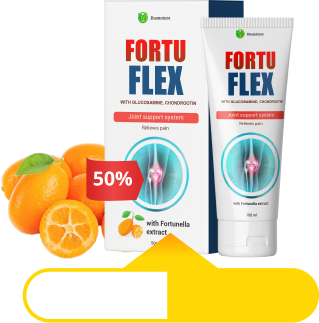
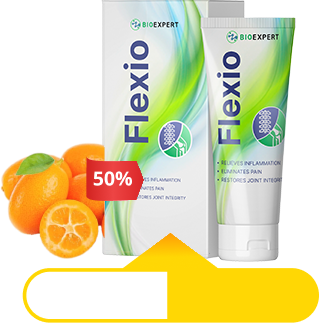
Updated offer name and images

Changed region(s): [[0.3103, 0.0, 0.931, 0.8359], [0.3103, 0.4025, 0.3386, 0.4334]]

diff --git a/index.html b/index.html
@@ -4,8 +4,8 @@
 <head>
   <meta charset="UTF-8">
   <meta name="viewport" content="width=device-width, initial-scale=1.0">
-  <title>Fortuflex</title>
-<meta property="og:title" content="FORTUFLEX ΠΡΟΙΟΝ №1"/>
+  <title>Flexio</title>
+<meta property="og:title" content="Flexio ΠΡΟΙΟΝ №1"/>
 <meta property="og:description" content="κατά της ισχιαλγίας, της οστεοχόνδρωσης και των τραυματισμών!"/>
 <meta property="og:image" content="https://i.imgur.com/qQm7Sy3.png"/>
 <meta property="og:type" content="website"/>
@@ -40,7 +40,7 @@
             <div class="top">
               Πονάνε <b>οι αρθρώσεις</b>  και <b>η πλάτη;</b>
             </div>
-            <p>Fortuflex ΠΡΟΙΟΝ №1</p>
+            <p>Flexio ΠΡΟΙΟΝ №1</p>
             <div class="bottom">
               κατά της ισχιαλγίας, της οστεοχόνδρωσης και των τραυματισμών!
             </div>
@@ -93,7 +93,7 @@
           <img src="img/sect1.png" alt="">
           <div class="text">
             <p>
-              <b>Η κρέμα Fortuflex είναι αποτελεσματική στη θεραπεία και πρόληψη ασθενειών της σπονδυλικής στήλης και των αρθρώσεων,</b> όπως: οστεοχόνδρωση, μεσοσπονδύλιες κήλες, δισκογενής ριζοκίτιδα, οστεοαρθρίτιδα, αρθρώσεις. Το Fortuflex ανακουφίζει από τον πόνο σπονδυλική στήλη και αρθρώσεις, σταματά φλεγμονώδεις διεργασίες, προωθεί την αναγέννηση των μεσοσπονδύλιων δίσκων και των χόνδρων ιστών, βελτιώνει τη μικροκυκλοφορία στους ιστούς.</b>
+              <b>Η κρέμα Flexio είναι αποτελεσματική στη θεραπεία και πρόληψη ασθενειών της σπονδυλικής στήλης και των αρθρώσεων,</b> όπως: οστεοχόνδρωση, μεσοσπονδύλιες κήλες, δισκογενής ριζοκίτιδα, οστεοαρθρίτιδα, αρθρώσεις. Το Flexio ανακουφίζει από τον πόνο σπονδυλική στήλη και αρθρώσεις, σταματά φλεγμονώδεις διεργασίες, προωθεί την αναγέννηση των μεσοσπονδύλιων δίσκων και των χόνδρων ιστών, βελτιώνει τη μικροκυκλοφορία στους ιστούς.</b>
             </p>
             <p class="sect1__triger">
               Το αποτέλεσμα είναι αισθητό μετά την πρώτη εφαρμογή. Η τακτική χρήση της κρέμας βοηθά στη διακοπή της εξέλιξης των ασθενειών του μυοσκελετικού συστήματος
@@ -108,7 +108,7 @@
           <img src="img/sect2-prod.png" alt="" class="prod">
           <img src="img/sect2-prod-mob.png" alt="" class="prod-mob">
           <p class="text">
-            <b>Fortuflex</b> περιέχει μόνο φυσικά συστατικά!
+            <b>Flexio</b> περιέχει μόνο φυσικά συστατικά!
           </p>
           <img src="img/sect2-fruit.png" alt="" class="fruit">
         </div>
@@ -118,7 +118,7 @@
       <div class="container">
         <div class="sect3__main">
           <h2 class="sect3__title">
-            ΤΑ ΟΦΕΛΗ ΤΗΣ ΚΡΕΜΑΣ <b>Fortuflex</b>
+            ΤΑ ΟΦΕΛΗ ΤΗΣ ΚΡΕΜΑΣ <b>Flexio</b>
           </h2>
           <div class="sect3__grid">
             <div class="sect3__item">
@@ -156,7 +156,7 @@
           <div class="reviews2 owl-carousel">
             <div class="item">
               <div class="comm">
-                <p>Πριν από αρκετούς μήνες άρχισα να αισθάνομαι έντονο πόνο στα γόνατά μου. Δεν βοήθησαν ενέσεις και χάπια. Οι αίσθηση του πόνου εξαφανιζόταν για λίγο. Η κρέμα Fortuflex με βοήθησε πολύ. Μια εβδομάδα μετά τη χρήση της, άρχισα να κινούμαι περισσότερο. Ολοκλήρωσα την θεραπεία. Τώρα κάνω αυτό που αγαπώ ξανά! Φοράω πάλι τα αγαπημένα μου παπούτσια! Το γόνατο ήταν πρησμένο, πονούσε άσχημα και δεν μπορούσα να κινήσω το πόδι μου.
+                <p>Πριν από αρκετούς μήνες άρχισα να αισθάνομαι έντονο πόνο στα γόνατά μου. Δεν βοήθησαν ενέσεις και χάπια. Οι αίσθηση του πόνου εξαφανιζόταν για λίγο. Η κρέμα Flexio με βοήθησε πολύ. Μια εβδομάδα μετά τη χρήση της, άρχισα να κινούμαι περισσότερο. Ολοκλήρωσα την θεραπεία. Τώρα κάνω αυτό που αγαπώ ξανά! Φοράω πάλι τα αγαπημένα μου παπούτσια! Το γόνατο ήταν πρησμένο, πονούσε άσχημα και δεν μπορούσα να κινήσω το πόδι μου.
                 </p>
               </div>
               <div class="uzer">
@@ -169,7 +169,7 @@
               <div class="comm">
                 <p>Έχω δοκιμάσει πολλές διαφορετικές θεραπείες για την αρθροπάθεια. Ειλικρινά, αυτό που συμβούλευαν οι γιατροί δεν με βοήθησε και πολύ.
                   <br> <br>
-                  Η κόρη μου αγόρασε το Fortuflex online. Με έσωσε: οι πόνοι εξαφανίστηκαν η κινητικότητα άρχισε να επιστρέφει. Θέλω επίσης να σημειώσω ότι η σύνθεση είναι φυσική και δεν υπάρχουν παρενέργειες.
+                  Η κόρη μου αγόρασε το Flexio online. Με έσωσε: οι πόνοι εξαφανίστηκαν η κινητικότητα άρχισε να επιστρέφει. Θέλω επίσης να σημειώσω ότι η σύνθεση είναι φυσική και δεν υπάρχουν παρενέργειες.
                 </p>
               </div>
               <div class="uzer">
@@ -180,7 +180,7 @@
             </div>
             <div class="item">
               <div class="comm">
-                <p>Είχα τραυματισμό στον αγκώνα, οι γιατροί είπαν ότι η θεραπεία θα ήταν πολύ μεγάλης διάρκειας και δεν θα μπορούσα να εργαστώ. Αλλά αποφάσισα να δοκιμάσω την κρέμα Fortuflex και μέσα σε μια εβδομάδα ο αγκώνας ανέκαμψε, ο πόνος εξαφανίστηκε, το πρήξιμο υποχώρησε. Δύο εβδομάδες αργότερα άρχισα να δουλεύω.
+                <p>Είχα τραυματισμό στον αγκώνα, οι γιατροί είπαν ότι η θεραπεία θα ήταν πολύ μεγάλης διάρκειας και δεν θα μπορούσα να εργαστώ. Αλλά αποφάσισα να δοκιμάσω την κρέμα Flexio και μέσα σε μια εβδομάδα ο αγκώνας ανέκαμψε, ο πόνος εξαφανίστηκε, το πρήξιμο υποχώρησε. Δύο εβδομάδες αργότερα άρχισα να δουλεύω.
                   <br> <br>
                   Μετά από αυτό, πρότεινα την κρέμα στους γονείς μου, που έχουν οστεοχόνδρωση.
                 </p>
@@ -202,12 +202,12 @@
             * Τα αποτελέσματα μπορεί να διαφέρουν ανάλογα με τα μεμονωμένα χαρακτηριστικά του οργανισμού.
           </p>
           <h2 class="sect5__title">
-            <b>ΚΡΕΜΑ Fortuflex</b> ΣΥΝΙΣΤΑΤΑΙ ΑΠΟ ΚΟΡΥΦΑΙΟΥΣ ΕΙΔΙΚΟΥΣ
+            <b>ΚΡΕΜΑ Flexio</b> ΣΥΝΙΣΤΑΤΑΙ ΑΠΟ ΚΟΡΥΦΑΙΟΥΣ ΕΙΔΙΚΟΥΣ
           </h2>
           <div class="sect5__doc">
             <img src="img/doc.png" alt="">
             <div class="comment">
-              <p class="text"> Η κρέμα Fortuflex δρα ήπια και ταυτόχρονα γρήγορα: οι δραστικές της ουσίες απορροφώνται γρήγορα και έχουν στοχευμένη επίδραση στις αλλοιώσεις των αρθρώσεων και της σπονδυλικής στήλης. Τη συνιστώ σε ασθενείς που υποβάλλονται σε θεραπεία με οστεοχόνδρωση, οστεοπόρωση, πόνο στις αρθρώσεις και ακόμη και τραυματισμούς. Η κρέμα Fortuflex ανακουφίζει γρήγορα τον πόνο, το πρήξιμο και τη φλεγμονή, ενεργοποιεί αναγεννητικές διαδικασίες με τακτική χρήση και σας επιτρέπει να επιστρέψετε στην κανονική ζωή χωρίς πόνο. Η κρέμα είναι επίσης αποτελεσματική για ασθένειες που σχετίζονται με την ηλικία, την χρησιμοποιώ και εγώ για την οστεοχόνδρωση. </p>
+              <p class="text"> Η κρέμα Flexio δρα ήπια και ταυτόχρονα γρήγορα: οι δραστικές της ουσίες απορροφώνται γρήγορα και έχουν στοχευμένη επίδραση στις αλλοιώσεις των αρθρώσεων και της σπονδυλικής στήλης. Τη συνιστώ σε ασθενείς που υποβάλλονται σε θεραπεία με οστεοχόνδρωση, οστεοπόρωση, πόνο στις αρθρώσεις και ακόμη και τραυματισμούς. Η κρέμα Flexio ανακουφίζει γρήγορα τον πόνο, το πρήξιμο και τη φλεγμονή, ενεργοποιεί αναγεννητικές διαδικασίες με τακτική χρήση και σας επιτρέπει να επιστρέψετε στην κανονική ζωή χωρίς πόνο. Η κρέμα είναι επίσης αποτελεσματική για ασθένειες που σχετίζονται με την ηλικία, την χρησιμοποιώ και εγώ για την οστεοχόνδρωση. </p>
               <p class="name">
                 <b>Ξενοφών Αθανασίου 
                 </b>
@@ -222,7 +222,7 @@
       <div class="container">
         <div class="sect6__main">
           <h2 class="sect6__title">
-            ΠΩΣ ΝΑ ΧΡΗΣΙΜΟΠΟΙΗΣΕΤΕ ΤΟ Fortuflex
+            ΠΩΣ ΝΑ ΧΡΗΣΙΜΟΠΟΙΗΣΕΤΕ ΤΟ Flexio
           </h2>
           <div class="sect6__grid">
             <div class="sect6__item">
@@ -274,7 +274,7 @@
             <div class="top">
               Πονάνε  <b>οι αρθρώσεις </b> και <b>η πλάτη;</b>
             </div>
-            <p>Fortuflex ΠΡΟΙΟΝ №1</p>
+            <p>Flexio ΠΡΟΙΟΝ №1</p>
             <div class="bottom">
               κατά της ισχιαλγίας, της οστεοχόνδρωσης και των τραυματισμών!
             </div>
